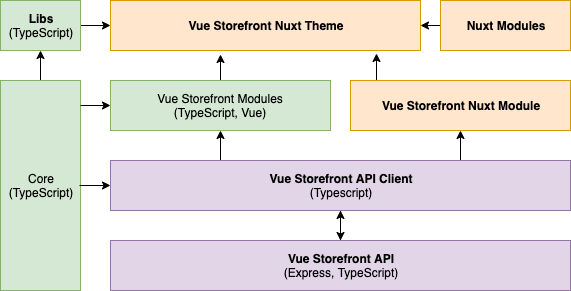
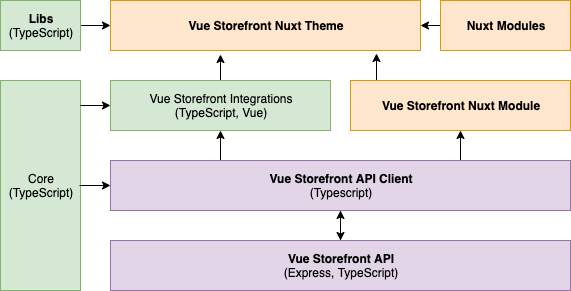
rename modules to integrations

Changed region(s): [[0.268, 0.3093, 0.5061, 0.433], [0.0595, 0.1856, 0.0893, 0.2165]]

diff --git a/docs/.vuepress/config.js b/docs/.vuepress/config.js
@@ -10,7 +10,7 @@ module.exports = {
         children: [
           ["/rfc/api-client", "API Client"],
           ["/rfc/core", "Core"],
-          ["/rfc/modules", "Modules"],
+          ['/rfc/integrations','Integrations'],
           ["/rfc/nuxt-module", "Nuxt Module"],
           ["/rfc/nuxt-theme", "Nuxt Theme"],
         ],
@@ -19,7 +19,6 @@ module.exports = {
         title: 'Problems',
         collapsable: false,
         children: [
-          ['/rfc/integrations','Integrations'],
           ['/rfc/extendibility','Extendibility'],
           ['/rfc/updates','Updates'],
           ['/rfc/browser-support','Browser support'],

diff --git a/docs/introduction.md b/docs/introduction.md
@@ -4,7 +4,7 @@
 
 New Vue Storefront should be modular and have strictly defined API. We should be able to work on each of them in separation without worrying that it will break other parts of the system. Users should be able to cut off functionalities they don't need without any problem. At bare minimum Vue Storefront should be able to work with any JavaScript application and framework. On top of this we will build additional "layers", each adding complexity and new features.
 
-Typical Vue Storefront shop will be using Nuxt Theme and Nuxt Module which will provide a working shop tempplate (Theme) and additional functionalities (Nuxt Module). Theme will be using Vue Storefront Hooks (in Vue Storefront modules) to get product, category, cms and other data.
+Typical Vue Storefront shop will be using Nuxt Theme and Nuxt Module which will provide a working shop tempplate (Theme) and additional functionalities (Nuxt Module). Theme will be using Vue Storefront Hooks (in Vue Storefront integrations) to get product, category, cms and other data.
 
 Vue Storefront core is just a set of interfaces that will be used by
 - Vue Hooks (Product, Category, CMS etc) to provide common denominator between multiple platforms
@@ -35,7 +35,7 @@ To ensure coverage of every possible use case Vue Storefront 2 needs to be a **f
 
 Here is a set of high-level architectural rules that are meant to fulfill above requirements. Their main purpose is to make sure that project is easy to maintain, extend and every decision is reversable.
 
-- Project should have decoupled architecture to ensure that every of it's parts is encapsulated and communicates with outside world only via strictly declaired public API defined in core. Implementation details of given module shouldn't influence those APIs.
+- Project should have decoupled architecture to ensure that every of it's parts is encapsulated and communicates with outside world only via strictly declaired public API defined in core. Implementation details of given part shouldn't influence those APIs.
 - We should provide common interfaces for replaceable platform-specific parts to make it easier to maintain multiple platform integrations and learn Vue Storefront.
 - Additional complexity should be avoided whenever possible (especialy unnecesary abstractions for uncertain future goals)
 - Core package must be tree-shakeable.
@@ -57,7 +57,7 @@ Project should be divided into following parts:
 - [**API Client**](./rfc/api-client.md) 
 - [**Vue Storefront Core**](./rfc/core.md) 
 - [**Core libraries**](./rfc/libraries.md) 
-- [**Core/3rd party Modules**](./rfc/modules.md) 
+- [**Core/3rd party Integrations**](./rfc/integrations.md) 
 - [**Vue Storefront Nuxt Module**](./rfc/nuxt-module.md) 
 - [**Nuxt Theme**](./rfc/nuxt-theme.md)
 

diff --git a/docs/rfc/api-client.md b/docs/rfc/api-client.md
@@ -4,7 +4,7 @@ API client provides a friendly abstraction layer over network calls and their co
 
 Every integration should use it's own API client. Core is exposing common interface that every API Client should use to ensure common way of configuring requests, headers etc  (there is only one interface for`setup()` function which is global API configuration). API Clients will be using axios.
 
-API client is one of two parts of eCommerce/CMS integration. Second one is a module that exposes Vue hooks. API client is not mandatory but we should promote writing dedicated API clients as a good practice to ensure that every integration is configurable
+API client is one of two parts of eCommerce/CMS integration. Second one is an integration that exposes Vue hooks. API client is not mandatory but we should promote writing dedicated API clients as a good practice to ensure that every integration is configurable
 
 **Every API client is a standalone package that can be used in any JavaScript project.**.
 :::

diff --git a/docs/rfc/integrations.md b/docs/rfc/integrations.md
@@ -1,6 +1,10 @@
 # Integrations
 
 :::tip tl;dr
+Vue Storefront integration as name suggests is a 3rd party integration.
+
+It's exposing Vue hooks as it's public API (and in some cases heleprs if needed).
+
 To build integration you need to build API client for your platform to get the data from REST/GQL API. API client should use axios and expose `setup()` function with axios configuration.
 
 Once you have API Client you can use it to build modules with Vue hooks. You're API are those hooks.

diff --git a/docs/rfc/images.md b/docs/rfc/images.md
@@ -1,5 +1,5 @@
 # Dealing with images
 
-3rd party module based on dependency injection
+3rd party integration based on dependency injection
 
 TBD

diff --git a/docs/rfc/extendibility.md b/docs/rfc/extendibility.md
@@ -1,5 +1,5 @@
 # Extendibility
 
-Swapping API clients and modules + nuxt modules.
+Swapping API clients and integrations + nuxt modules.
 
 TBD
